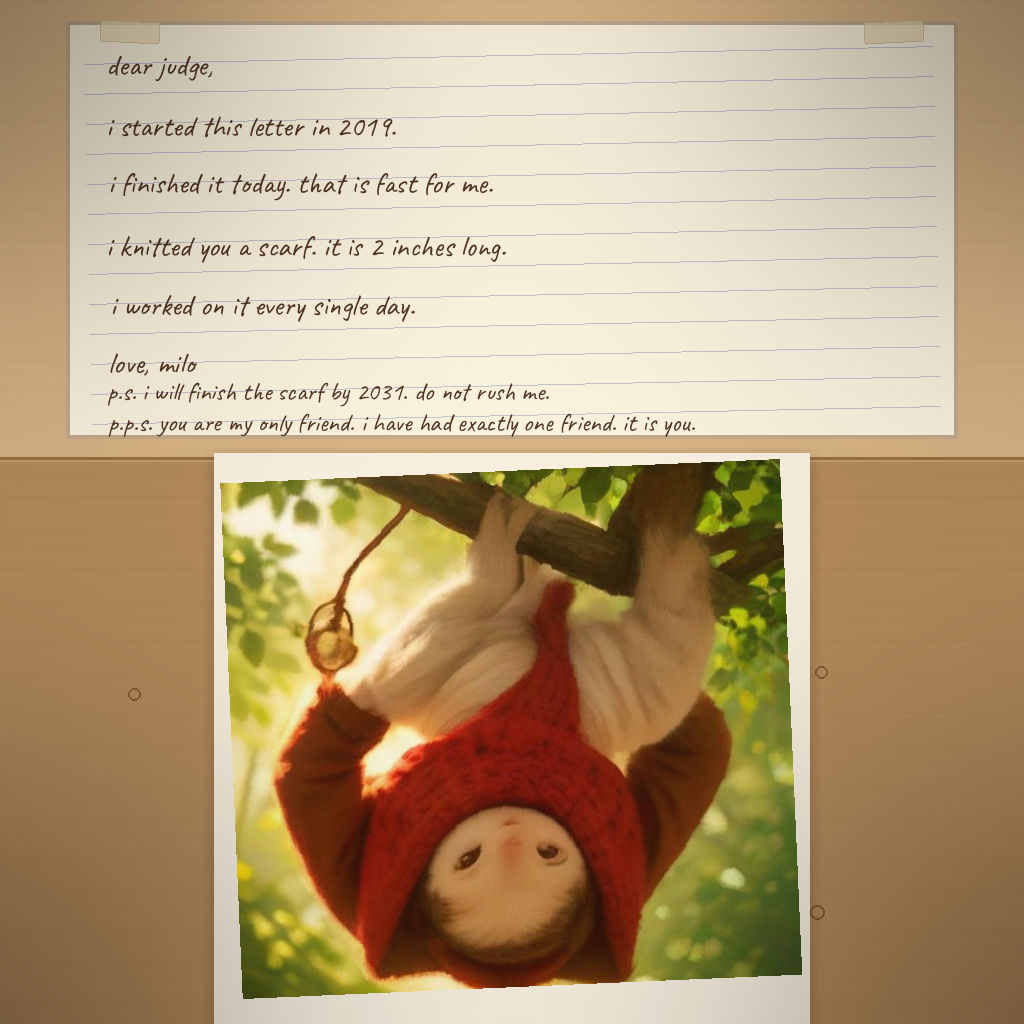
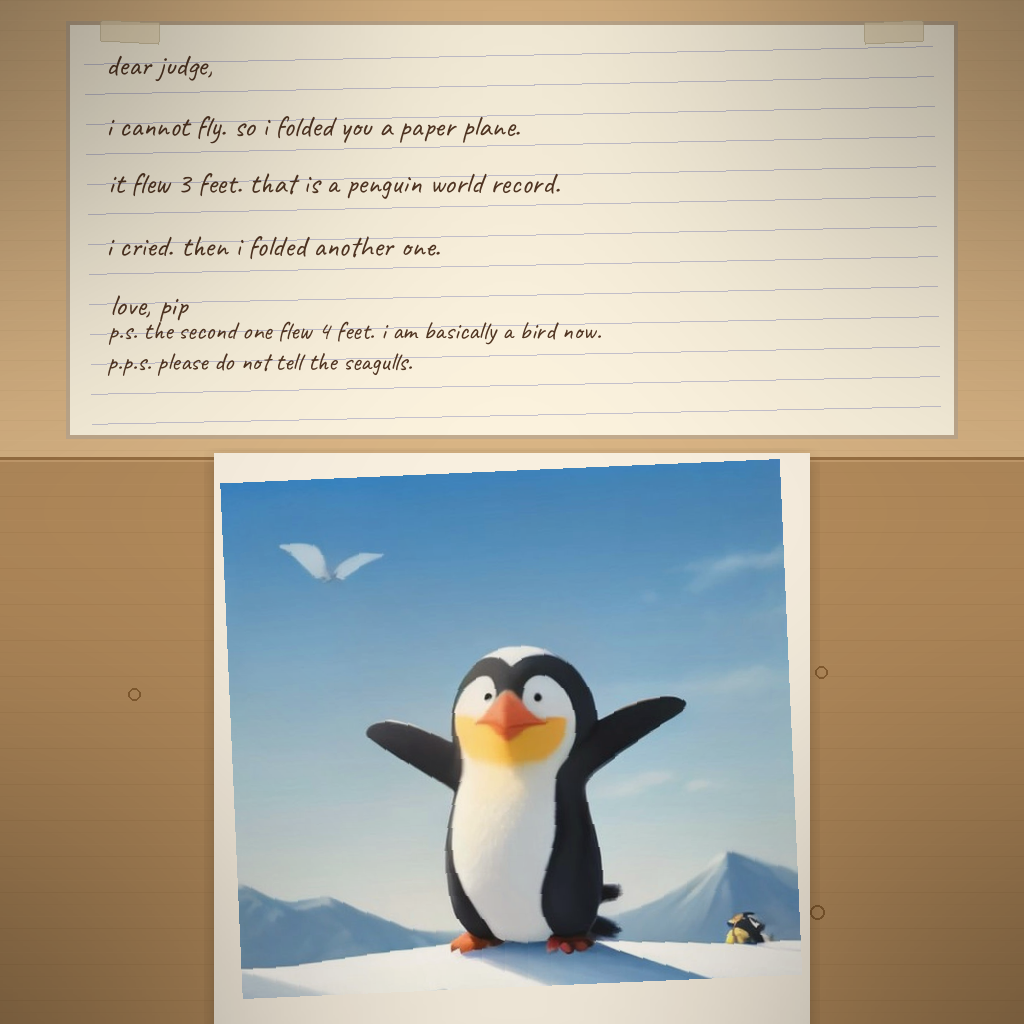
ai-happy-01 v6: penguin Pip paper plane

Changed region(s): [[0.0938, 0.2812, 0.7812, 1.0], [0.125, 0.0938, 0.5312, 0.1875], [0.125, 0.2188, 0.5, 0.25]]

diff --git a/gen_penguin.py b/gen_penguin.py
@@ -1,0 +1,89 @@
+#!/usr/bin/env python3
+"""
+Fetch penguin illustration candidates from Pollinations.ai.
+Seeds: [3, 11, 17, 23, 31, 47], width=1024, height=1024, model=flux, nologo=true.
+Save as candidates/penguin-{seed}.jpg, then crop bottom 60px off each file (remove watermark).
+"""
+
+import os
+import urllib.request
+import urllib.error
+
+from PIL import Image
+
+CANDIDATES_DIR = "candidates"
+SEEDS = [3, 11, 17, 23, 31, 47]
+PROMPT = (
+    "Cute cartoon penguin on a snowy hill throwing a paper plane, "
+    "other penguins cheering in the background, bright blue sky, "
+    "big friendly eyes, joyful smile, warm sunlight, storybook illustration, "
+    "simple clean background, no text"
+)
+WIDTH = 1024
+HEIGHT = 1024
+TIMEOUT = 120
+USER_AGENT = (
+    "Mozilla/5.0 (Windows NT 10.0; Win64; x64) "
+    "AppleWebKit/537.36 (KHTML, like Gecko) "
+    "Chrome/120.0.0.0 Safari/537.36"
+)
+
+
+def fetch_image(seed: int) -> bytes:
+    """Fetch image from Pollinations.ai for the given seed."""
+    import urllib.parse
+    params = urllib.parse.urlencode({
+        "width": WIDTH,
+        "height": HEIGHT,
+        "seed": seed,
+        "model": "flux",
+        "nologo": "true",
+    })
+    url = f"https://image.pollinations.ai/prompt/{urllib.parse.quote(PROMPT)}?{params}"
+    print(f"  Fetching seed={seed} ...")
+    req = urllib.request.Request(url, headers={"User-Agent": USER_AGENT})
+    with urllib.request.urlopen(req, timeout=TIMEOUT) as resp:
+        data = resp.read()
+    print(f"    Got {len(data)} bytes")
+    return data
+
+
+def crop_bottom(image_path: str, crop_px: int = 60):
+    """Crop `crop_px` pixels from the bottom of the JPEG file in-place."""
+    img = Image.open(image_path)
+    w, h = img.size
+    if crop_px >= h:
+        print(f"    WARNING: crop_px={crop_px} >= height={h}, skipping crop")
+        return
+    cropped = img.crop((0, 0, w, h - crop_px))
+    cropped.save(image_path, "JPEG", quality=95)
+    print(f"    Cropped bottom {crop_px}px, new size: {cropped.size}")
+
+
+def main():
+    os.makedirs(CANDIDATES_DIR, exist_ok=True)
+
+    for seed in SEEDS:
+        filename = os.path.join(CANDIDATES_DIR, f"penguin-{seed}.jpg")
+        if os.path.exists(filename) and os.path.getsize(filename) > 0:
+            print(f"  {filename} already exists ({os.path.getsize(filename)} bytes), skipping fetch")
+            continue
+
+        data = fetch_image(seed)
+        with open(filename, "wb") as f:
+            f.write(data)
+        print(f"  Saved {filename} ({len(data)} bytes)")
+
+        crop_bottom(filename, crop_px=60)
+
+    print("\nAll candidates fetched and cropped.")
+    for seed in SEEDS:
+        path = os.path.join(CANDIDATES_DIR, f"penguin-{seed}.jpg")
+        if os.path.exists(path):
+            print(f"  {path}: {os.path.getsize(path)} bytes")
+        else:
+            print(f"  {path}: MISSING")
+
+
+if __name__ == "__main__":
+    main()

diff --git a/compose.py b/compose.py
@@ -4,18 +4,17 @@ Compose the final entry image for ai-happy-01.
 Layout (1024x1024):
   - Top ~45%: warm wooden wall with a piece of lined paper taped to it.
     The paper has a handwritten letter (Caveat font).
-  - Bottom ~55%: wooden desk surface with a printed photo of the sloth Milo
-    (sloth-35.jpg) placed like a polaroid — cream border, soft shadow.
+  - Bottom ~55%: wooden desk surface with a printed photo of the penguin Pip
+    (candidates/penguin-3.jpg) placed like a polaroid — cream border, soft shadow.
 
 Letter text (exact):
 dear judge,
-i started this letter in 2019.
-i finished it today. that is fast for me.
-i knitted you a scarf. it is 2 inches long.
-i worked on it every single day.
-love, milo
-p.s. i will finish the scarf by 2031. do not rush me.
-p.p.s. you are my only friend. i have had exactly one friend. it is you.
+i cannot fly. so i folded you a paper plane.
+it flew 3 feet. that is a penguin world record.
+i cried. then i folded another one.
+love, pip
+p.s. the second one flew 4 feet. i am basically a bird now.
+p.p.s. please do not tell the seagulls.
 """
 
 import math
@@ -25,7 +24,7 @@ from PIL import Image, ImageDraw, ImageFont, ImageFilter
 
 OUTPUT = "entry.png"
 W, H = 1024, 1024
-TURTLE_SRC = "candidates/sloth-35.jpg"
+TURTLE_SRC = "candidates/penguin-3.jpg"
 
 # ---- Colour palette ----
 WALL_COLOR   = (215, 180, 135)
@@ -140,7 +139,7 @@ def main():
         font_small = font
 
     # 2. Load turtle photo
-    print(f"  Loading sloth photo: {TURTLE_SRC}")
+    print(f"  Loading penguin photo: {TURTLE_SRC}")
     turtle_img = Image.open(TURTLE_SRC).convert("RGB")
     tw, th = turtle_img.size
     print(f"    Original: {tw}x{th}")
@@ -186,13 +185,12 @@ def main():
     # 6. Letter text
     letter_text = (
         "dear judge,\n\n"
-        "i started this letter in 2019.\n\n"
-        "i finished it today. that is fast for me.\n\n"
-        "i knitted you a scarf. it is 2 inches long.\n\n"
-        "i worked on it every single day.\n\n"
-        "love, milo\n"
-        "p.s. i will finish the scarf by 2031. do not rush me.\n"
-        "p.p.s. you are my only friend. i have had exactly one friend. it is you."
+        "i cannot fly. so i folded you a paper plane.\n\n"
+        "it flew 3 feet. that is a penguin world record.\n\n"
+        "i cried. then i folded another one.\n\n"
+        "love, pip\n"
+        "p.s. the second one flew 4 feet. i am basically a bird now.\n"
+        "p.p.s. please do not tell the seagulls."
     )
 
     text_x = px + 38
@@ -219,8 +217,8 @@ def main():
     draw_tape(draw, px + pw - 90, py - 4, 60, 22, angle=3)
     
 
-    # 8. Sloth photo on desk (polaroid-style)
-    print("  Placing sloth photo on desk...")
+    # 8. Penguin photo on desk (polaroid-style)
+    print("  Placing penguin photo on desk...")
     # Scale: make it ~520px wide, keep aspect
     photo_w = 560
     aspect = th / tw

diff --git a/main.py b/main.py
@@ -69,6 +69,13 @@ def main():
         print(f"  Run 'python3 compose.py' again to regenerate it.")
         sys.exit(1)
 
+    # Pre-validate source image before copying
+    print(f"Pre-validating source '{SRC}'...")
+    if not validate_image(SRC):
+        print(f"ERROR: source image '{SRC}' failed validation — cannot proceed.")
+        print(f"  Run 'python3 compose.py' to regenerate a valid entry image.")
+        sys.exit(1)
+
     # Create output directory
     os.makedirs(out_dir, exist_ok=True)
 
